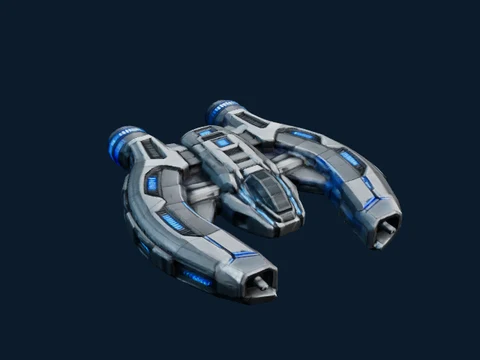
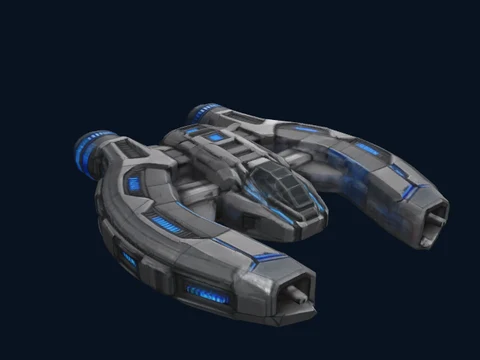
Unify six hangar ship previews, fix centering and cleanup, and refresh model thumbnails

Changed region(s): [[0.1562, 0.275, 0.9375, 0.9167]]

diff --git a/index.html b/index.html
@@ -1,4 +1,4 @@
-<!doctype html><html lang="es"><head><meta charset="UTF-8"><meta name="viewport" content="width=device-width,initial-scale=1,viewport-fit=cover"><title>Cosmos Legacy</title><link rel="stylesheet" href="css/game.css?v=3d-20261016-251"><link rel="stylesheet" href="css/journal.css?v=225"></head><body><div id="orientationGate" role="dialog" aria-label="Gira el dispositivo para jugar"><div class="orientation-card"><div class="orientation-icon">📱 <span>↻</span></div><h2>Gira tu dispositivo</h2><p>Cosmos Legacy se juega exclusivamente en horizontal para disfrutar mejor los combates y los controles.</p><button id="requestLandscape" type="button">Activar pantalla horizontal</button><small>Si el navegador no puede girarla automáticamente, activa la rotación del teléfono y colócalo de lado.</small></div></div><main id="game"><canvas id="world"></canvas><section id="hud"><button id="hudToggle" type="button" aria-label="Plegar información de vida" aria-expanded="true">⌃</button><div id="hudCompactHealth"><div id="hudCompactHealthFill"></div></div><div id="hudDetails"><div><strong id="playerName">Nave Aurora</strong> · <span id="level">Nivel 1</span></div><small id="classLabel">Sin tipo</small><div class="bar"><i id="hpBar"></i><span id="hpText"></span></div><div class="bar energy"><i id="energyBar"></i><span id="energyText"></span></div><div class="xp-line"><span id="xpText"></span><div class="xp-bar"><i id="xpBar"></i></div></div><div class="stats"><span>⚡ <b id="attack"></b></span><span>🛡 <b id="defense"></b></span><span>◈ <b id="gold"></b></span><span>✦ <b id="lootCount">0</b></span></div></div></section><div id="boosterStatus" class="hidden" aria-label="Potenciadores activos"></div><div id="lootToast" class="loot-toast hidden"></div><div id="levelToast" class="level-toast hidden"></div><button id="characterBtn" class="round-btn">☰</button><button id="formationBtn" type="button" title="Cambiar formación de drones" aria-label="Cambiar formación de drones">🔄</button><button id="questToggle" type="button" aria-label="Abrir misiones" aria-expanded="false">📋</button><section id="questTracker" class="quest-tracker hidden"><strong id="questTitle">Misiones</strong><small id="missionSummary"></small><div id="missionList"></div></section><section id="characterPanel" class="panel hidden" role="dialog" aria-label="Inventario de la nave"><h2>Nave</h2><label>Nombre de la nave <input id="nameInput" maxlength="16"></label><p id="statList"></p><h3>Inventario · Materiales</h3><p class="inventory-note">Recoge los cristales que dejan los enemigos. Los materiales se guardan automáticamente y servirán para fabricar mejoras.</p><div id="lootInventory"></div><section id="qaPanel"><h3>🧪 Servidor de prueba</h3><p class="inventory-note">Recursos de prueba. Este progreso no se transfiere a tu partida normal.</p><button id="qaSwitch" type="button">Entrar a partida QA</button><div id="qaTools" class="hidden"><button id="qaCredits" type="button">+100.000 créditos</button><button id="qaDrones" type="button">Equipar 8 drones</button><button id="qaHeal" type="button">Restaurar vida y energía</button><button id="qaLevels" type="button">+5 niveles</button><button id="qaMaterials" type="button">+100 materiales de cada tipo</button></div></section><button id="pvpBtn" type="button" class="hidden" disabled>Portal PvP en el Cementerio</button><button id="journalBtn" type="button">📖 Diario de actividad</button><button id="saveBtn">Guardar progreso</button><button id="resetBtn" class="secondary">Reiniciar nave</button><button id="closePanel" class="secondary">Cerrar</button></section><div id="zoomControls" aria-label="Distancia de cámara"><button id="zoomIn" type="button" aria-label="Acercar cámara">＋</button><button id="zoomOut" type="button" aria-label="Alejar cámara">－</button></div><div id="joystick"><div id="stick"></div></div><div id="lookZone" aria-label="Control de dirección"></div><div id="targetInfo">ESTACIÓN AURORA<br><small>Zona segura</small></div><div id="radarWidget" aria-label="Minimapa espacial"><canvas id="miniRadar" width="156" height="156"></canvas><div id="stationDistance">Aurora · -- m</div><div class="radar-legend">🔴 Enemigos · ✦ Recursos</div></div><div id="targetLock" class="hidden" aria-label="Enemigo fijado"><div id="targetLockInfo"><strong id="targetName"></strong><span id="targetHpText"></span><div id="targetHpTrack"><i id="targetHpFill"></i></div></div></div><div id="aimReticle" aria-label="Mira de disparo"><span></span><span></span><span></span><span></span><i></i></div><button id="dockBtn" class="hidden" disabled>🛬 Atracar en Aurora</button><section id="hangarPanel" class="hidden" role="dialog" aria-label="Hangar Estación Aurora"><div class="hangar-inner"><div class="hangar-tag">ESTACIÓN AURORA</div><h2>🛬 Hangar principal</h2><p>Tu nave está atracada y protegida. Desde aquí puedes revisar su estado y preparar el siguiente vuelo.</p><div id="hangarStats"></div><p id="hangarMessage"></p><div id="hangarNotice" class="hangar-notice" role="status" hidden></div><div id="hangarHomeView"><div class="hangar-destinations"><button type="button" data-hangar-view="shop"><span>🛒</span><strong>Tienda</strong><small>Naves, drones y suministros</small></button><button type="button" data-hangar-view="assembly"><span>⚙</span><strong>Ensamblaje</strong><small>Fabrica y equipa formaciones</small></button></div></div><section id="hangarShopView" class="hidden"><header class="commerce-header"><button type="button" data-hangar-view="home" class="subtle">← Hangar</button><div><span class="hangar-eyebrow">PREPARA TU PRÓXIMO VUELO</span><h3>Tienda</h3></div></header><nav class="commerce-tabs" aria-label="Categorías de tienda"><button data-shop-category="ships">Naves</button><button data-shop-category="drones">Drones y robot</button><button data-shop-category="upgrades">Mejoras</button><button data-shop-category="boosters">Potenciadores</button><button data-shop-category="sell">Vender materiales</button></nav><section id="hangarStore"><div id="shopShips"></div><div id="shopDrones" class="hidden"><div id="hangarDroneShop"></div></div><div id="shopUpgrades" class="hidden"><div id="hangarUpgradeShop"></div></div><div id="shopBoosters" class="hidden"></div><div id="shopSell" class="hidden"></div></section></section><section id="hangarAssemblyView" class="hidden"><header class="commerce-header"><button type="button" data-hangar-view="home" class="subtle">← Hangar</button><div><span class="hangar-eyebrow">PLANOS Y MATERIALES</span><h3>Ensamblaje de naves y formaciones</h3></div></header><div class="assembly-layout"><nav id="formationCatalog" aria-label="Planos de formaciones"></nav><div id="assemblyDetail"></div></div></section><div id="saleConfirm" class="sale-confirm hidden" role="dialog" aria-modal="true" aria-label="Confirmar venta"><div><h3>Confirmar venta</h3><p id="saleConfirmText"></p><button id="confirmSale">Confirmar venta</button><button id="cancelSale" class="subtle">Cancelar</button></div></div><div id="hangarCredits" class="hangar-credit-pill"></div><button id="hangarJournal" type="button">📖 Diario de actividad</button><button id="repairBtn">Reparar casco</button><button id="launchBtn">🚀 Despegar</button></div></section><div id="combatControls"><button id="fireBtn" aria-label="Disparar">🔥</button><button id="skillBtn" aria-label="Lanzar misil">🚀<small id="skillCd"></small></button><button id="classAbilityBtn" aria-label="Habilidad de nave" title="Habilidad de nave" style="background:linear-gradient(135deg,#26365d,#573d87);border:2px solid #93dfff;border-radius:50%;color:white;font-size:21px;min-width:56px;min-height:56px;touch-action:manipulation;">✨<small id="classAbilityCd" style="display:block;font-size:10px"></small></button></div><button id="interactBtn" class="interact hidden">Hablar</button><section id="dialogue" class="dialogue hidden"><div><strong id="dialogueName"></strong><small id="dialogueRole"></small></div><p id="dialogueText"></p><button id="questAction" class="hidden">Aceptar contrato</button><button id="dialogueNext">Continuar</button><button id="dialogueClose" class="secondary">Cerrar</button></section><div id="hint">WASD / flechas · E para comunicar · En móvil usa los controles</div></main><div id="bootStatus" class="boot-status">Cargando motor 3D…</div>
+<!doctype html><html lang="es"><head><meta charset="UTF-8"><meta name="viewport" content="width=device-width,initial-scale=1,viewport-fit=cover"><title>Cosmos Legacy</title><link rel="stylesheet" href="css/game.css?v=3d-20261016-252"><link rel="stylesheet" href="css/journal.css?v=225"></head><body><div id="orientationGate" role="dialog" aria-label="Gira el dispositivo para jugar"><div class="orientation-card"><div class="orientation-icon">📱 <span>↻</span></div><h2>Gira tu dispositivo</h2><p>Cosmos Legacy se juega exclusivamente en horizontal para disfrutar mejor los combates y los controles.</p><button id="requestLandscape" type="button">Activar pantalla horizontal</button><small>Si el navegador no puede girarla automáticamente, activa la rotación del teléfono y colócalo de lado.</small></div></div><main id="game"><canvas id="world"></canvas><section id="hud"><button id="hudToggle" type="button" aria-label="Plegar información de vida" aria-expanded="true">⌃</button><div id="hudCompactHealth"><div id="hudCompactHealthFill"></div></div><div id="hudDetails"><div><strong id="playerName">Nave Aurora</strong> · <span id="level">Nivel 1</span></div><small id="classLabel">Sin tipo</small><div class="bar"><i id="hpBar"></i><span id="hpText"></span></div><div class="bar energy"><i id="energyBar"></i><span id="energyText"></span></div><div class="xp-line"><span id="xpText"></span><div class="xp-bar"><i id="xpBar"></i></div></div><div class="stats"><span>⚡ <b id="attack"></b></span><span>🛡 <b id="defense"></b></span><span>◈ <b id="gold"></b></span><span>✦ <b id="lootCount">0</b></span></div></div></section><div id="boosterStatus" class="hidden" aria-label="Potenciadores activos"></div><div id="lootToast" class="loot-toast hidden"></div><div id="levelToast" class="level-toast hidden"></div><button id="characterBtn" class="round-btn">☰</button><button id="formationBtn" type="button" title="Cambiar formación de drones" aria-label="Cambiar formación de drones">🔄</button><button id="questToggle" type="button" aria-label="Abrir misiones" aria-expanded="false">📋</button><section id="questTracker" class="quest-tracker hidden"><strong id="questTitle">Misiones</strong><small id="missionSummary"></small><div id="missionList"></div></section><section id="characterPanel" class="panel hidden" role="dialog" aria-label="Inventario de la nave"><h2>Nave</h2><label>Nombre de la nave <input id="nameInput" maxlength="16"></label><p id="statList"></p><h3>Inventario · Materiales</h3><p class="inventory-note">Recoge los cristales que dejan los enemigos. Los materiales se guardan automáticamente y servirán para fabricar mejoras.</p><div id="lootInventory"></div><section id="qaPanel"><h3>🧪 Servidor de prueba</h3><p class="inventory-note">Recursos de prueba. Este progreso no se transfiere a tu partida normal.</p><button id="qaSwitch" type="button">Entrar a partida QA</button><div id="qaTools" class="hidden"><button id="qaCredits" type="button">+100.000 créditos</button><button id="qaDrones" type="button">Equipar 8 drones</button><button id="qaHeal" type="button">Restaurar vida y energía</button><button id="qaLevels" type="button">+5 niveles</button><button id="qaMaterials" type="button">+100 materiales de cada tipo</button></div></section><button id="pvpBtn" type="button" class="hidden" disabled>Portal PvP en el Cementerio</button><button id="journalBtn" type="button">📖 Diario de actividad</button><button id="saveBtn">Guardar progreso</button><button id="resetBtn" class="secondary">Reiniciar nave</button><button id="closePanel" class="secondary">Cerrar</button></section><div id="zoomControls" aria-label="Distancia de cámara"><button id="zoomIn" type="button" aria-label="Acercar cámara">＋</button><button id="zoomOut" type="button" aria-label="Alejar cámara">－</button></div><div id="joystick"><div id="stick"></div></div><div id="lookZone" aria-label="Control de dirección"></div><div id="targetInfo">ESTACIÓN AURORA<br><small>Zona segura</small></div><div id="radarWidget" aria-label="Minimapa espacial"><canvas id="miniRadar" width="156" height="156"></canvas><div id="stationDistance">Aurora · -- m</div><div class="radar-legend">🔴 Enemigos · ✦ Recursos</div></div><div id="targetLock" class="hidden" aria-label="Enemigo fijado"><div id="targetLockInfo"><strong id="targetName"></strong><span id="targetHpText"></span><div id="targetHpTrack"><i id="targetHpFill"></i></div></div></div><div id="aimReticle" aria-label="Mira de disparo"><span></span><span></span><span></span><span></span><i></i></div><button id="dockBtn" class="hidden" disabled>🛬 Atracar en Aurora</button><section id="hangarPanel" class="hidden" role="dialog" aria-label="Hangar Estación Aurora"><div class="hangar-inner"><div class="hangar-tag">ESTACIÓN AURORA</div><h2>🛬 Hangar principal</h2><p>Tu nave está atracada y protegida. Desde aquí puedes revisar su estado y preparar el siguiente vuelo.</p><div id="hangarStats"></div><p id="hangarMessage"></p><div id="hangarNotice" class="hangar-notice" role="status" hidden></div><div id="hangarHomeView"><div class="hangar-destinations"><button type="button" data-hangar-view="shop"><span>🛒</span><strong>Tienda</strong><small>Naves, drones y suministros</small></button><button type="button" data-hangar-view="assembly"><span>⚙</span><strong>Ensamblaje</strong><small>Fabrica y equipa formaciones</small></button></div></div><section id="hangarShopView" class="hidden"><header class="commerce-header"><button type="button" data-hangar-view="home" class="subtle">← Hangar</button><div><span class="hangar-eyebrow">PREPARA TU PRÓXIMO VUELO</span><h3>Tienda</h3></div></header><nav class="commerce-tabs" aria-label="Categorías de tienda"><button data-shop-category="ships">Naves</button><button data-shop-category="drones">Drones y robot</button><button data-shop-category="upgrades">Mejoras</button><button data-shop-category="boosters">Potenciadores</button><button data-shop-category="sell">Vender materiales</button></nav><section id="hangarStore"><div id="shopShips"></div><div id="shopDrones" class="hidden"><div id="hangarDroneShop"></div></div><div id="shopUpgrades" class="hidden"><div id="hangarUpgradeShop"></div></div><div id="shopBoosters" class="hidden"></div><div id="shopSell" class="hidden"></div></section></section><section id="hangarAssemblyView" class="hidden"><header class="commerce-header"><button type="button" data-hangar-view="home" class="subtle">← Hangar</button><div><span class="hangar-eyebrow">PLANOS Y MATERIALES</span><h3>Ensamblaje de naves y formaciones</h3></div></header><div class="assembly-layout"><nav id="formationCatalog" aria-label="Planos de formaciones"></nav><div id="assemblyDetail"></div></div></section><div id="saleConfirm" class="sale-confirm hidden" role="dialog" aria-modal="true" aria-label="Confirmar venta"><div><h3>Confirmar venta</h3><p id="saleConfirmText"></p><button id="confirmSale">Confirmar venta</button><button id="cancelSale" class="subtle">Cancelar</button></div></div><div id="hangarCredits" class="hangar-credit-pill"></div><button id="hangarJournal" type="button">📖 Diario de actividad</button><button id="repairBtn">Reparar casco</button><button id="launchBtn">🚀 Despegar</button></div></section><div id="combatControls"><button id="fireBtn" aria-label="Disparar">🔥</button><button id="skillBtn" aria-label="Lanzar misil">🚀<small id="skillCd"></small></button><button id="classAbilityBtn" aria-label="Habilidad de nave" title="Habilidad de nave" style="background:linear-gradient(135deg,#26365d,#573d87);border:2px solid #93dfff;border-radius:50%;color:white;font-size:21px;min-width:56px;min-height:56px;touch-action:manipulation;">✨<small id="classAbilityCd" style="display:block;font-size:10px"></small></button></div><button id="interactBtn" class="interact hidden">Hablar</button><section id="dialogue" class="dialogue hidden"><div><strong id="dialogueName"></strong><small id="dialogueRole"></small></div><p id="dialogueText"></p><button id="questAction" class="hidden">Aceptar contrato</button><button id="dialogueNext">Continuar</button><button id="dialogueClose" class="secondary">Cerrar</button></section><div id="hint">WASD / flechas · E para comunicar · En móvil usa los controles</div></main><div id="bootStatus" class="boot-status">Cargando motor 3D…</div>
 <script>
 (function(){
  const gate=document.getElementById('orientationGate');
@@ -32,7 +32,7 @@ document.currentScript.after(threeMap);
 <script type="module">
 // GitHub Pages puede servir HTML cacheado: comprobamos la versión publicada
 // con una petición que evita caché y actualizamos una sola vez si cambió.
-const GAME_BUILD='3d-20261016-251';
+const GAME_BUILD='3d-20261016-252';
 const status=document.getElementById('bootStatus');
 try {
  const response=await fetch('./version.json?check='+Date.now(),{cache:'no-store'});
@@ -59,7 +59,7 @@ try{
   const THREE=await import('three');
   window.THREE=THREE;
   status.textContent='Motor 3D OK · cargando mundo…';
-  await import('./js/game3d.js?v=3d-20261016-251');
+  await import('./js/game3d.js?v=3d-20261016-252');
   status.remove();
 }catch(err){
   if(!new URLSearchParams(location.search).has('threecdn') && /fetch|module|network|load/i.test(String(err?.message||err))){

diff --git a/js/hangar-ui.js b/js/hangar-ui.js
@@ -1,4 +1,5 @@
-import {startAssemblyPreview,stopAssemblyPreview} from './assembly-3d-preview.js?v=246';
+import {SHIP_PREVIEWS,shipThumbnail} from './ship-preview-catalog.js?v=252';
+import {startAssemblyPreview,stopAssemblyPreview} from './assembly-3d-preview.js?v=252';
 import {ASSEMBLED_SHIPS,canAssembleShip,assembleShip} from './assembled-ships.js?v=210';
 import {FORMATIONS,RECIPE,BOOSTERS,SELL_PRICES,canAssemble,assemble,sellMaterial,buyBooster,formationOffset} from './hangar-systems.js?v=177';
 const fmt=n=>Math.floor(n).toLocaleString('es-CL');
@@ -9,24 +10,21 @@ export function formationPreview(id){
  const dots=Array.from({length:8},(_,i)=>{const [x,y,z]=formationOffset(id,i,8,0);return '<g transform="translate('+(150+x*.42)+','+(150-y*.38-z*.45)+')"><path d="M0 -7 L6 5 L0 2 L-6 5Z" fill="#d7e7ef" stroke="'+f.color+'" stroke-width="1.5"/><circle cy="5" r="2" fill="'+f.color+'"/></g>'}).join('');
  return '<svg class="formation-preview" viewBox="0 0 300 260" role="img" aria-label="Vista previa de '+f.name+'"><defs><radialGradient id="glow-'+id+'"><stop stop-color="'+f.color+'" stop-opacity=".14"/><stop offset="1" stop-color="#06101c" stop-opacity="0"/></radialGradient></defs><ellipse cx="150" cy="140" rx="128" ry="108" fill="url(#glow-'+id+')"/><path d="M150 23V238M28 143H272" stroke="#75bde0" stroke-opacity=".12" stroke-dasharray="3 8"/>'+dots+'<g transform="translate(150,143)"><path d="M0 -28L12 -8L32 14L9 10L7 24L-7 24L-9 10L-32 14L-12 -8Z" fill="#d7e6ee" stroke="#7c97ab" stroke-width="2"/><path d="M0 -20L4 5L0 12L-4 5Z" fill="#ee5c66"/><path d="M-20 9L-10 7M20 9L10 7" stroke="#ee5c66" stroke-width="3"/><circle cx="-7" cy="24" r="3" fill="#65dfff"/><circle cx="7" cy="24" r="3" fill="#65dfff"/></g></svg>';
 }
-export function assembledShipPreview(id){
- const ship=ASSEMBLED_SHIPS[id];if(!ship)return '';
- return '<img class="formation-preview ship-preview" src="./assets/ship-previews/'+id+'.webp?v=212" alt="Nave '+ship.name+'" width="480" height="360" decoding="async">';
-}
+export function assembledShipPreview(id){return ASSEMBLED_SHIPS[id]?shipThumbnail(id):''}
 export function mountHangarUI({player,isDocked,isOffline,equip,equipShip,log=()=>{},changed}){
- const $=id=>document.getElementById(id);let selected='shield',draft=new Set(),message='',view='home',category='ships',stamp='';
+ const $=id=>document.getElementById(id);let selected='shield',draft=new Set(),message='',view='home',category='ships',stamp='',shopPreviewId='aurora';
  const note=text=>{message=text;const el=$('hangarNotice');el.textContent=text;el.hidden=!text};
- function show(next){stopAssemblyPreview();view=next;for(const v of ['home','shop','assembly'])$('hangar'+v[0].toUpperCase()+v.slice(1)+'View').classList.toggle('hidden',v!==view);$('hangarPanel').classList.toggle('expanded',view!=='home');note('');render(true)}
+ function show(next){stopAssemblyPreview();view=next;for(const v of ['home','shop','assembly'])$('hangar'+v[0].toUpperCase()+v.slice(1)+'View').classList.toggle('hidden',v!==view);$('hangarPanel').classList.toggle('expanded',view!=='home');note('');render(true);if(view==='shop'&&category==='ships')previewShip()}
  document.querySelectorAll('[data-hangar-view]').forEach(b=>b.onclick=()=>show(b.dataset.hangarView));
- document.querySelectorAll('[data-shop-category]').forEach(b=>b.onclick=()=>{category=b.dataset.shopCategory;render(true)});
+ document.querySelectorAll('[data-shop-category]').forEach(b=>b.onclick=()=>{category=b.dataset.shopCategory;stopAssemblyPreview();render(true);if(view==='shop'&&category==='ships')previewShip()});
  function sync(){changed();render(true)}
  function renderShipAssembly(id){
   const ship=ASSEMBLED_SHIPS[id],owned=!!player.ownedShips?.[id],recipe=Object.entries(ship.recipe);
   const names={nucleo_demolicion:['Núcleo de demolición','#ff8448'],bobina_anclaje:['Bobina de anclaje','#68d2ce'],cristal_punteria:['Cristal de puntería','#ff436d']};
   for(const [key,name,color]of MATERIALS)names[key]=[name,color];
   const ready=draft.size===recipe.length&&canAssembleShip(player,id);
-  $('assemblyDetail').innerHTML='<div class="assembly-hero">'+(id==='segadora'?'<div id="segadoraAssembly3d" class="formation-preview ship-preview" style="min-height:230px;aspect-ratio:4/3;width:100%;overflow:hidden" aria-label="Modelo 3D giratorio de Segadora"></div>':assembledShipPreview(id))+'<div><span class="hangar-eyebrow">'+(owned?'NAVE DISPONIBLE':'PLANO DE NAVE')+'</span><h3>'+ship.name+'</h3><p>'+ship.description+'</p><strong class="formation-perk">Casco ×'+ship.hp+' · Ataque ×'+ship.attack+' · Escudo ×'+ship.defense+' · Velocidad ×'+ship.speed+'</strong><p class="muted">Nivel '+ship.level+' · Puedes conseguir las tres naves.</p></div></div>'+(owned?'<button id="equipAssembledShip" '+(player.shipId===id?'disabled':'')+'>'+(player.shipId===id?'Equipada':'Equipar nave')+'</button>':'<div class="recipe-slots">'+recipe.map(([key,amount])=>'<button class="recipe-slot '+(draft.has(key)?'filled':'')+'" data-ship-material="'+key+'" '+(!draft.has(key)&&Number(player.loot?.[key]||0)<amount?'disabled':'')+'><span class="material-crystal" style="--gem:'+names[key][1]+'"></span><strong>'+names[key][0]+'</strong><b>'+fmt(amount)+'</b><small>Tienes '+fmt(player.loot?.[key]||0)+'</small><em>'+(draft.has(key)?'✓ Agregado':'Agregar material')+'</em></button>').join('')+'</div><p class="recipe-price">'+fmt(ship.cost)+' créditos</p><p class="muted">Los materiales se descuentan únicamente al ensamblar. La nave es tuya permanentemente.</p><div class="assembly-actions"><button id="fillShipRecipe" class="subtle">Agregar todos</button><button id="assembleShip" '+(!ready?'disabled':'')+'>Ensamblar nave</button></div>');
-  if(id==='segadora')void startAssemblyPreview($('segadoraAssembly3d'),id);
+  $('assemblyDetail').innerHTML='<div class="assembly-hero">'+'<div id="shipAssembly3d" class="formation-preview ship-preview ship-model-preview" aria-label="Modelo 3D de '+ship.name+'">'+assembledShipPreview(id)+'</div>'+'<div><span class="hangar-eyebrow">'+(owned?'NAVE DISPONIBLE':'PLANO DE NAVE')+'</span><h3>'+ship.name+'</h3><p>'+ship.description+'</p><strong class="formation-perk">Casco ×'+ship.hp+' · Ataque ×'+ship.attack+' · Escudo ×'+ship.defense+' · Velocidad ×'+ship.speed+'</strong><p class="muted">Nivel '+ship.level+' · Puedes conseguir las tres naves.</p></div></div>'+(owned?'<button id="equipAssembledShip" '+(player.shipId===id?'disabled':'')+'>'+(player.shipId===id?'Equipada':'Equipar nave')+'</button>':'<div class="recipe-slots">'+recipe.map(([key,amount])=>'<button class="recipe-slot '+(draft.has(key)?'filled':'')+'" data-ship-material="'+key+'" '+(!draft.has(key)&&Number(player.loot?.[key]||0)<amount?'disabled':'')+'><span class="material-crystal" style="--gem:'+names[key][1]+'"></span><strong>'+names[key][0]+'</strong><b>'+fmt(amount)+'</b><small>Tienes '+fmt(player.loot?.[key]||0)+'</small><em>'+(draft.has(key)?'✓ Agregado':'Agregar material')+'</em></button>').join('')+'</div><p class="recipe-price">'+fmt(ship.cost)+' créditos</p><p class="muted">Los materiales se descuentan únicamente al ensamblar. La nave es tuya permanentemente.</p><div class="assembly-actions"><button id="fillShipRecipe" class="subtle">Agregar todos</button><button id="assembleShip" '+(!ready?'disabled':'')+'>Ensamblar nave</button></div>');
+  if(view==='assembly')void startAssemblyPreview($('shipAssembly3d'),id);
   $('assemblyDetail').querySelectorAll('[data-ship-material]').forEach(button=>button.onclick=()=>{const key=button.dataset.shipMaterial,amount=ship.recipe[key];if(draft.has(key))draft.delete(key);else if(Number(player.loot?.[key]||0)>=amount)draft.add(key);render(true)});
   if($('fillShipRecipe'))$('fillShipRecipe').onclick=()=>{for(const [key,amount]of recipe)if(Number(player.loot?.[key]||0)>=amount)draft.add(key);render(true)};
   if($('assembleShip'))$('assembleShip').onclick=()=>{if(!isDocked()||!isOffline()||draft.size!==recipe.length||!assembleShip(player,id))return;log('commerce','Nave ensamblada: '+ship.name+' · −'+fmt(ship.cost)+' créditos y materiales del plano');draft.clear();sync();note(ship.name+' ensamblada. Ya puedes equiparla.');};
@@ -36,12 +34,13 @@ export function mountHangarUI({player,isDocked,isOffline,equip,equipShip,log=()=
  function render(force=false){
   $('hangarCredits').textContent=fmt(player.gold)+' créditos';
   const next=JSON.stringify([player.gold,player.loot,player.formations,player.droneFormation,player.droneCount,player.repairRobotLevel,player.boosters,player.ownedShips,player.shipId,player.level]);
-  if(!force&&next===stamp)return;stamp=next;stopAssemblyPreview();
+  if(!force&&next===stamp)return;stamp=next;
   document.querySelectorAll('[data-shop-category]').forEach(b=>b.setAttribute('aria-pressed',String(b.dataset.shopCategory===category)));
   for(const c of ['ships','drones','upgrades','boosters','sell'])$('shop'+c[0].toUpperCase()+c.slice(1)).classList.toggle('hidden',c!==category);
   const list=$('formationCatalog');list.innerHTML='<h4>Naves</h4>'+Object.entries(ASSEMBLED_SHIPS).map(([id,ship])=>'<button class="formation-tile '+(selected==='ship:'+id?'chosen':'')+'" data-plan="ship:'+id+'" aria-pressed="'+(selected==='ship:'+id)+'" style="--formation-color:'+('#'+ship.color.toString(16).padStart(6,'0'))+'">'+assembledShipPreview(id)+'<strong>'+ship.name+'</strong><small>'+(player.shipId===id?'Equipada':player.ownedShips?.[id]?'Disponible':'Por ensamblar')+'</small></button>').join('')+'<h4>Formaciones</h4>'+FORMATIONS.map(f=>'<button class="formation-tile '+(f.id===selected?'chosen':'')+'" data-plan="'+f.id+'" aria-pressed="'+(f.id===selected)+'" style="--formation-color:'+f.color+'">'+formationPreview(f.id)+'<strong>'+f.name+'</strong><small>'+(player.droneFormation===f.id?'Equipada':player.formations[f.id]?'Disponible':'Por ensamblar')+'</small></button>').join('');
   list.querySelectorAll('[data-plan]').forEach(b=>b.onclick=()=>{selected=b.dataset.plan;draft.clear();note('');render(true)});
   if(selected.startsWith('ship:'))renderShipAssembly(selected.slice(5));else{
+  if(view==='assembly')stopAssemblyPreview();
   const f=FORMATIONS.find(x=>x.id===selected),owned=player.formations[f.id];
   $('assemblyDetail').innerHTML='<div class="assembly-hero">'+formationPreview(f.id)+'<div><span class="hangar-eyebrow">'+(owned?'FORMACIÓN DISPONIBLE':'PLANO DE ENSAMBLAJE')+'</span><h3>'+f.name+'</h3><p>'+f.description+'</p><strong class="formation-perk">'+f.benefit+'</strong><p class="muted">Vista con ocho drones. En vuelo se usan los que tengas comprados. Las ventajas requieren al menos un dron de combate.</p></div></div>'+(owned?'<button id="equipFormation" '+(player.droneFormation===f.id?'disabled':'')+'>'+(player.droneFormation===f.id?'Equipada':'Equipar formación')+'</button>':'<div class="recipe-slots">'+MATERIALS.map(([id,name,color])=>'<button class="recipe-slot '+(draft.has(id)?'filled':'')+'" data-material="'+id+'" '+(!draft.has(id)&&(Number(player.loot[id])||0)<RECIPE[id]?'disabled':'')+'><span class="material-crystal" style="--gem:'+color+'"></span><strong>'+name+'</strong><b>'+RECIPE[id]+'</b><small>Tienes '+fmt(player.loot[id]||0)+'</small><em>'+(draft.has(id)?'✓ Agregado':'Agregar material')+'</em></button>').join('')+'</div><p class="recipe-price">'+fmt(RECIPE.credits)+' créditos <span>+ los cuatro materiales</span></p><p class="muted">Los materiales se descuentan únicamente al ensamblar. El desbloqueo es permanente.</p><div class="assembly-actions"><button id="fillRecipe" class="subtle">Agregar todos</button><button id="assembleFormation" '+(draft.size!==4||!canAssemble(player,f.id)?'disabled':'')+'>Ensamblar formación</button></div>');
   $('assemblyDetail').querySelectorAll('[data-material]').forEach(b=>b.onclick=()=>{const id=b.dataset.material;if(draft.has(id))draft.delete(id);else if((Number(player.loot[id])||0)>=RECIPE[id])draft.add(id);render(true)});
@@ -61,5 +60,6 @@ export function mountHangarUI({player,isDocked,isOffline,equip,equipShip,log=()=
    $('confirmSale').onclick=()=>{dialog.classList.add('hidden');if(!isDocked()||!isOffline()||!sellMaterial(player,id,n))return;log('commerce','Venta: '+fmt(n)+' '+name+' · +'+fmt(n*SELL_PRICES[id])+' créditos');note('Venta completada: +'+fmt(n*SELL_PRICES[id])+' créditos.');sync()};
   });
  }
- return {render,show};
+ function previewShip(id=shopPreviewId){if(!SHIP_PREVIEWS[id]||view!=='shop'||category!=='ships')return;shopPreviewId=id;const host=$('shopShipPreview');if(host){const label=$('shopShipPreviewName');if(label)label.textContent=SHIP_PREVIEWS[id].name;void startAssemblyPreview(host,id)}}
+ return {render(force=false){render(force);if(view==='shop'&&category==='ships')previewShip();},show,previewShip,stopPreview:stopAssemblyPreview};
 }

diff --git a/js/assembly-3d-preview.js b/js/assembly-3d-preview.js
@@ -1,41 +1,43 @@
-// Vista 3D bajo demanda: un único modelo activo, sin afectar al motor de combate.
+import {SHIP_PREVIEWS,shipThumbnail,disposePreviewModel,fitPreviewModel} from './ship-preview-catalog.js?v=252';
+// Only one independent, demand-loaded WebGL preview is alive across the hangar.
 let active=null;
-export function stopAssemblyPreview(){if(active){active();active=null}}
+export function stopAssemblyPreview(){active?.cleanup();active=null}
 export async function startAssemblyPreview(container,id){
+ if(!container||!SHIP_PREVIEWS[id]){stopAssemblyPreview();return}
+ if(active?.id===id){active.mount(container);return}
  stopAssemblyPreview();
- if(!container||id!=='segadora')return;
- let cancelled=false,raf=0,renderer=null,resizeObserver=null,model=null;
- const cleanup=()=>{cancelled=true;cancelAnimationFrame(raf);resizeObserver?.disconnect();if(renderer){renderer.dispose();renderer.forceContextLoss();renderer.domElement.remove()}if(model){model.traverse(o=>{if(o.geometry)o.geometry.dispose();for(const m of (Array.isArray(o.material)?o.material:[o.material])){if(!m)continue;for(const v of Object.values(m))if(v?.isTexture)v.dispose();m.dispose?.()}})}};
- active=cleanup;
+ let host=container,cancelled=false,raf=0,renderer=null,observer=null,model=null,lastTime=0,lastRender=0,dragging=false,lastX=0;
+ const fallback=()=>{if(!cancelled&&host.isConnected)host.innerHTML=shipThumbnail(id)};
+ const resize=()=>{if(!renderer||!camera)return;const w=host.clientWidth,h=host.clientHeight;if(!w||!h)return;camera.aspect=w/h;camera.position.set(2.6,2.1,-3.3).multiplyScalar(1/Math.min(1,camera.aspect));camera.lookAt(0,0,0);camera.updateProjectionMatrix();renderer.setSize(w,h,false)};
+ const cleanup=()=>{if(cancelled)return;cancelled=true;cancelAnimationFrame(raf);observer?.disconnect();disposePreviewModel(model);model=null;if(renderer){renderer.dispose();renderer.forceContextLoss();renderer.domElement.remove();renderer=null}};
+ let camera=null;
+ const session={id,cleanup,mount(next){observer?.disconnect();host=next;if(renderer&&model)host.replaceChildren(renderer.domElement);else host.innerHTML=shipThumbnail(id);observer?.observe(host);resize()}};
+ active=session;host.innerHTML=shipThumbnail(id);
  try{
   const THREE=await import('three');
   const {GLTFLoader}=await import((window.THREE_CDN||'https://cdn.jsdelivr.net/npm/three@0.180.0')+'/examples/jsm/loaders/GLTFLoader.js');
   if(cancelled)return;
-  const scene=new THREE.Scene(),camera=new THREE.PerspectiveCamera(36,1,.1,100);
-  scene.add(new THREE.HemisphereLight(0xd7edff,0x334055,2.5));
-  const light=new THREE.DirectionalLight(0xffffff,3);light.position.set(4,7,6);scene.add(light);
-  const fill=new THREE.DirectionalLight(0xff6677,1.4);fill.position.set(-5,2,-3);scene.add(fill);
-  renderer=new THREE.WebGLRenderer({alpha:true,antialias:true,powerPreference:'low-power'});
-  renderer.setPixelRatio(Math.min(devicePixelRatio||1,1.5));
-  renderer.outputColorSpace=THREE.SRGBColorSpace;
+  const scene=new THREE.Scene();camera=new THREE.PerspectiveCamera(36,4/3,.1,100);camera.position.set(2.6,2.1,-3.3);camera.lookAt(0,0,0);
+  scene.add(new THREE.HemisphereLight(0xe5f2ff,0x34435c,2.8));
+  const key=new THREE.DirectionalLight(0xffffff,3);key.position.set(3,5,-4);scene.add(key);
+  const fill=new THREE.DirectionalLight(0x9fcfff,1.8);fill.position.set(-4,2,3);scene.add(fill);
+  renderer=new THREE.WebGLRenderer({alpha:true,antialias:false,powerPreference:'low-power'});renderer.setPixelRatio(Math.min(devicePixelRatio||1,1.25));renderer.outputColorSpace=THREE.SRGBColorSpace;renderer.toneMapping=THREE.ACESFilmicToneMapping;
   renderer.domElement.style.cssText='display:block;width:100%;height:100%;touch-action:pan-y';
-  container.replaceChildren(renderer.domElement);
-  const gltf=await new GLTFLoader().loadAsync('./assets/models/segadora.glb?v=240');
-  if(cancelled){renderer.dispose();renderer.domElement.remove();return}
-  model=gltf.scene;
-  const box=new THREE.Box3().setFromObject(model),size=box.getSize(new THREE.Vector3()),center=box.getCenter(new THREE.Vector3());
-  model.position.sub(center);model.scale.setScalar(3/Math.max(size.x,size.y,size.z));
-  // Igual orientación correctiva que en el combate.
-  model.rotation.y=-Math.PI/2;model.rotation.z=-0.055;
-  scene.add(model);camera.position.set(0,2.2,7.5);camera.lookAt(0,0,0);
-  let dragging=false,lastX=0,auto=true,lastTime=0;
-  renderer.domElement.addEventListener('pointerdown',e=>{dragging=true;auto=false;lastX=e.clientX;renderer.domElement.setPointerCapture(e.pointerId)});
-  renderer.domElement.addEventListener('pointermove',e=>{if(dragging){model.rotation.y+=(e.clientX-lastX)*.012;lastX=e.clientX}});
-  renderer.domElement.addEventListener('pointerup',()=>{dragging=false;auto=true});
-  renderer.domElement.addEventListener('pointercancel',()=>{dragging=false;auto=true});
-  const resize=()=>{const w=container.clientWidth,h=container.clientHeight;if(!w||!h)return;camera.aspect=w/h;camera.updateProjectionMatrix();renderer.setSize(w,h,false)};
-  resizeObserver=new ResizeObserver(resize);resizeObserver.observe(container);resize();
-  function frame(t){if(cancelled||!container.isConnected)return;if(!document.hidden&&container.getClientRects().length){if(auto&&lastTime)model.rotation.y+=Math.min((t-lastTime)/1000,.05)*.3;renderer.render(scene,camera)}lastTime=t;raf=requestAnimationFrame(frame)}
+  const gltf=await new GLTFLoader().loadAsync('./assets/models/'+SHIP_PREVIEWS[id].model+'?v=252');
+  if(cancelled){disposePreviewModel(gltf.scene);return}
+  model=gltf.scene;const turntable=fitPreviewModel(THREE,model,id);scene.add(turntable);host.replaceChildren(renderer.domElement);
+  renderer.domElement.setAttribute('role','img');renderer.domElement.setAttribute('aria-label','Modelo 3D de '+SHIP_PREVIEWS[id].name+'. Arrastra para girar.');
+  renderer.domElement.addEventListener('webglcontextlost',e=>{if(cancelled)return;e.preventDefault();if(active===session)stopAssemblyPreview();if(host.isConnected)host.innerHTML=shipThumbnail(id)});
+  renderer.domElement.addEventListener('pointerdown',e=>{dragging=true;lastX=e.clientX;renderer.domElement.setPointerCapture(e.pointerId)});
+  renderer.domElement.addEventListener('pointermove',e=>{if(dragging){turntable.rotation.y+=(e.clientX-lastX)*.012;lastX=e.clientX}});
+  for(const event of ['pointerup','pointercancel','lostpointercapture'])renderer.domElement.addEventListener(event,()=>{dragging=false});
+  observer=new ResizeObserver(resize);observer.observe(host);resize();
+  function frame(t){
+   if(cancelled)return;
+   if(!host.isConnected||host.closest('#hangarPanel')?.classList.contains('hidden')){if(active===session)stopAssemblyPreview();return}
+   if(!document.hidden&&host.getClientRects().length&&t-lastRender>=1000/30){if(!dragging&&lastTime)turntable.rotation.y+=Math.min((t-lastTime)/1000,.05)*.3;renderer.render(scene,camera);lastTime=t;lastRender=t}else if(document.hidden)lastTime=0;
+   raf=requestAnimationFrame(frame);
+  }
   raf=requestAnimationFrame(frame);
- }catch(err){if(!cancelled){console.warn('Vista 3D no disponible; se muestra la imagen de respaldo.',err);cleanup();container.innerHTML='<img class="formation-preview ship-preview" src="./assets/ship-previews/segadora.webp?v=212" alt="Segadora" style="width:100%;height:100%;object-fit:contain">';active=null}}
+ }catch(error){if(!cancelled){console.warn('Vista 3D no disponible; se conserva la miniatura.',error);fallback();if(active===session)stopAssemblyPreview();else cleanup()}}
 }

diff --git a/js/game3d.js b/js/game3d.js
@@ -1,3 +1,4 @@
+import {shipThumbnail} from './ship-preview-catalog.js?v=252';
 import {createFarmPilot} from './farm-pilot.js?v=251';
 import {mountFarmPilotUI} from './farm-pilot-ui.js?v=251';
 import {GRAPHICS_KEY,createGraphicsController,renderRatio,mountGraphicsSettings} from './graphics-settings.js?v=229';
@@ -10,7 +11,7 @@ import {attachAssembledEngines} from './assembled-engines.js?v=247';
 import {ASSEMBLED_SHIPS,canAssembleShip,assembleShip,shipRole} from './assembled-ships.js?v=210';
 import {createColosoRig} from './coloso-rig.js?v=187';
 import {FORMATIONS,normalizeHangar,formationBonus,boosterBonus,tickBoosters,formationOffset} from './hangar-systems.js?v=177';
-import {mountHangarUI} from './hangar-ui.js?v=246';
+import {mountHangarUI} from './hangar-ui.js?v=252';
 import {selectCompanionTask} from './companion-priority.js?v=174';
 import {sharedRequested,startSharedSession} from './shared-session.js?v=238';
 import {initialPvpPilot,readOfflinePilot} from './pvp-loadout.js?v=224';
@@ -2220,12 +2221,13 @@ function renderShips(){
  const hangarShop=$('shopShips');if(!hangarShop)return;
  let fleet=$('hangarShipFleet');
  if(!fleet){fleet=document.createElement('div');fleet.id='hangarShipFleet';hangarShop.appendChild(fleet)}
- fleet.innerHTML='<h3>🚀 Flota de naves</h3>'+Object.entries(SHIP_TYPES).filter(([,t])=>!t.recipe).map(([id,t])=>{
+ fleet.innerHTML='<h3>🚀 Flota de naves</h3><section class="shop-model-hero"><div id="shopShipPreview" class="ship-model-preview">'+shipThumbnail('aurora')+'</div><div><strong id="shopShipPreviewName">Aurora</strong><small>Modelo 3D · Arrastra para girar. Toca la miniatura de otra nave para verla.</small></div></section>'+Object.entries(SHIP_TYPES).filter(([,t])=>!t.recipe).map(([id,t])=>{
   const owned=!!player.ownedShips[id],selected=player.shipId===id,canBuy=t.recipe?canAssembleShip(player,id):player.level>=t.level&&player.gold>=t.cost;
   const stats=t.recipe?'<small>Casco ×'+t.hp+' · Ataque ×'+t.attack+' · Escudo ×'+t.defense+' · Velocidad ×'+t.speed+'</small>':'';
   const recipe=t.recipe?Object.entries(t.recipe).map(([key,n])=>n.toLocaleString('es')+' '+(LOOT_TYPES.find(item=>item.id===key)?.name||key)+' ('+(player.loot?.[key]||0)+')').join(' · '):'';
-  return '<div class="upgrade-card"><div><strong>'+t.name+'</strong><small>'+t.description+'</small>'+stats+'<small>'+(owned?'Adquirida':('Nivel '+t.level+' · '+t.cost.toLocaleString('es')+' créditos'))+'</small>'+(recipe&&!owned?'<small>'+recipe+'</small>':'')+'</div><button data-ship="'+id+'" '+(selected||(!owned&&!canBuy)?'disabled':'')+'>'+(selected?'Equipada':owned?'Equipar':t.recipe?'Ensamblar':'Comprar')+'</button></div>';
+  return '<div class="upgrade-card"><button class="ship-preview-button" type="button" data-preview-ship="'+id+'" aria-label="Ver modelo 3D de '+t.name+'">'+shipThumbnail(id)+'</button><div><strong>'+t.name+'</strong><small>'+t.description+'</small>'+stats+'<small>'+(owned?'Adquirida':('Nivel '+t.level+' · '+t.cost.toLocaleString('es')+' créditos'))+'</small>'+(recipe&&!owned?'<small>'+recipe+'</small>':'')+'</div><button data-ship="'+id+'" '+(selected||(!owned&&!canBuy)?'disabled':'')+'>'+(selected?'Equipada':owned?'Equipar':t.recipe?'Ensamblar':'Comprar')+'</button></div>';
  }).join('');
+ fleet.querySelectorAll('[data-preview-ship]').forEach(button=>button.onclick=()=>hangarUI?.previewShip(button.dataset.previewShip));
  fleet.querySelectorAll('button[data-ship]').forEach(button=>button.onclick=()=>{
   const id=button.dataset.ship,t=SHIP_TYPES[id];if(!t)return;
   if(!player.ownedShips[id]){
@@ -2705,6 +2707,7 @@ function advanceLanding(dt){
  }else finishLanding();
 }
 function leaveHangar(){
+ hangarUI?.stopPreview();
  if(PVP_MODE&&pvpHangar){closePvpHangar();return}
  if(!docked)return;
  docked=false;landingArmed=false;

diff --git a/js/ship-preview-catalog.js b/js/ship-preview-catalog.js
@@ -1,0 +1,22 @@
+// The same GLBs and forward orientations used by the equipped fleet.
+export const SHIP_PREVIEWS=Object.freeze({
+ aurora:{name:'Aurora',model:'x_wing_starfighter.glb',yaw:Math.PI},
+ titan:{name:'Titán',model:'titan.glb',yaw:Math.PI},
+ espectro:{name:'Espectro',model:'espectro.glb',yaw:Math.PI/2},
+ segadora:{name:'Segadora',model:'segadora.glb',yaw:-Math.PI,roll:-.055},
+ bastion:{name:'Bastión',model:'bastion.glb',yaw:Math.PI},
+ centella:{name:'Centella',model:'centella.glb',yaw:Math.PI}
+});
+export function shipThumbnail(id){const ship=SHIP_PREVIEWS[id];return ship?'<img class="formation-preview ship-preview" src="./assets/ship-previews/'+id+'.webp?v=252" alt="Nave '+ship.name+'" width="480" height="360" loading="lazy" decoding="async">':''}
+export function disposePreviewModel(model){
+ const resources=new Set();model?.traverse(o=>{if(o.geometry)resources.add(o.geometry);for(const m of Array.isArray(o.material)?o.material:[o.material])if(m){resources.add(m);for(const value of Object.values(m))if(value?.isTexture)resources.add(value)}});
+ for(const resource of resources)resource.dispose?.();
+}
+export function fitPreviewModel(THREE,source,id){
+ const box=new THREE.Box3().setFromObject(source),size=box.getSize(new THREE.Vector3()),center=box.getCenter(new THREE.Vector3()),span=Math.max(size.x,size.y,size.z);
+ if(!Number.isFinite(span)||span<1e-6)throw new Error('Modelo sin dimensiones válidas');
+ // Translate inside a scaled parent: scale and rotation must not displace the center.
+ const centered=new THREE.Group();centered.add(source);source.position.sub(center);
+ const turntable=new THREE.Group();turntable.add(centered);centered.scale.setScalar(3/span);centered.rotation.y=SHIP_PREVIEWS[id].yaw;centered.rotation.z=SHIP_PREVIEWS[id].roll||0;
+ return turntable;
+}

diff --git a/css/game.css b/css/game.css
@@ -220,3 +220,5 @@ body:not(.pvp-hud) #zoomControls button{width:42px;height:42px;flex:none}
  body:not(.pvp-hud) #zoomControls{top:9px;right:calc(max(8px,env(safe-area-inset-right)) + 151px);bottom:auto;gap:6px}
  body:not(.pvp-hud) #zoomControls button{width:40px;height:40px;font-size:22px}
 }
+
+#hangarPanel .ship-model-preview{position:relative;min-height:160px;height:230px;aspect-ratio:4/3;overflow:hidden;border-radius:12px;background:radial-gradient(ellipse at center,#203851,#091625);isolation:isolate}#hangarPanel .ship-model-preview>img{width:100%;height:100%;object-fit:contain}#hangarPanel .shop-model-hero{display:flex;align-items:center;gap:16px;margin:12px 0 18px}#hangarPanel .shop-model-hero .ship-model-preview{width:min(60%,360px);flex-shrink:0}#hangarPanel .shop-model-hero small{display:block;line-height:1.5;margin-top:10px}#hangarPanel .ship-preview-button{padding:0;width:110px;min-width:80px;flex-shrink:0;border:1px solid #456583;border-radius:10px;background:#0c1b2b}#hangarPanel .ship-preview-button .ship-preview{width:100%;height:auto;margin:0}@media(max-width:600px){#hangarPanel .ship-preview-button{width:80px}#hangarPanel .shop-model-hero{gap:10px}#hangarPanel .ship-model-preview{height:180px}}
